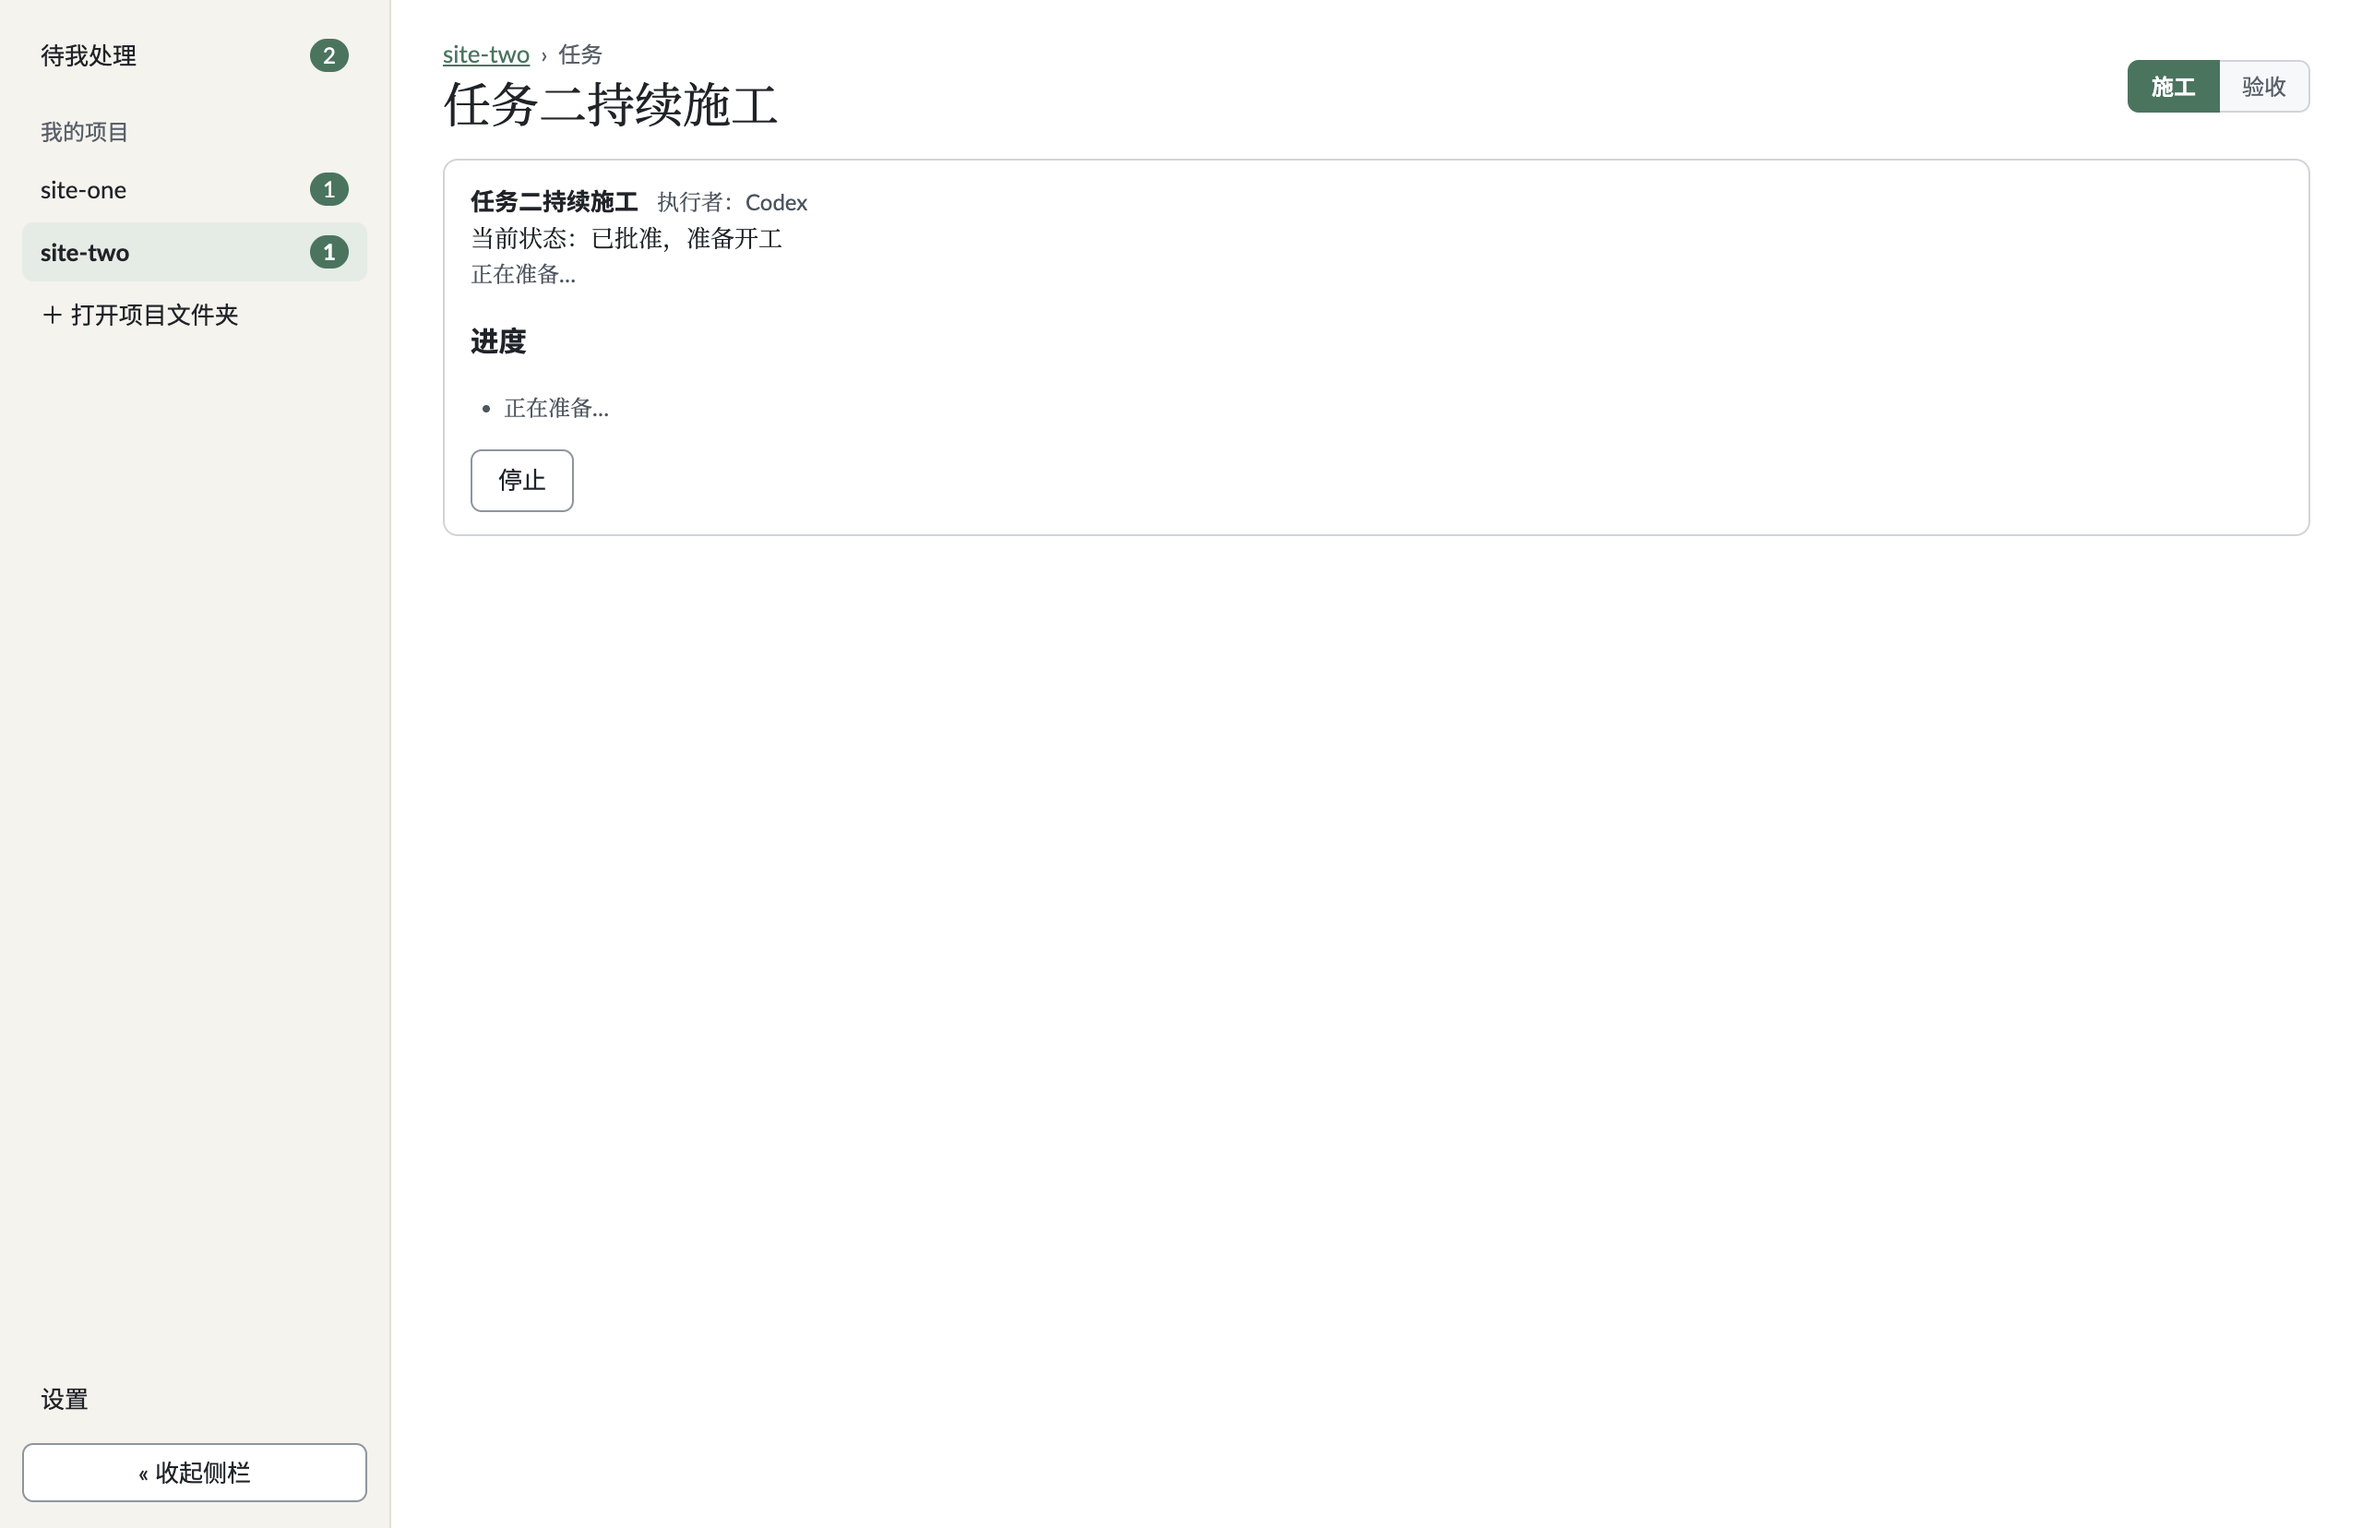
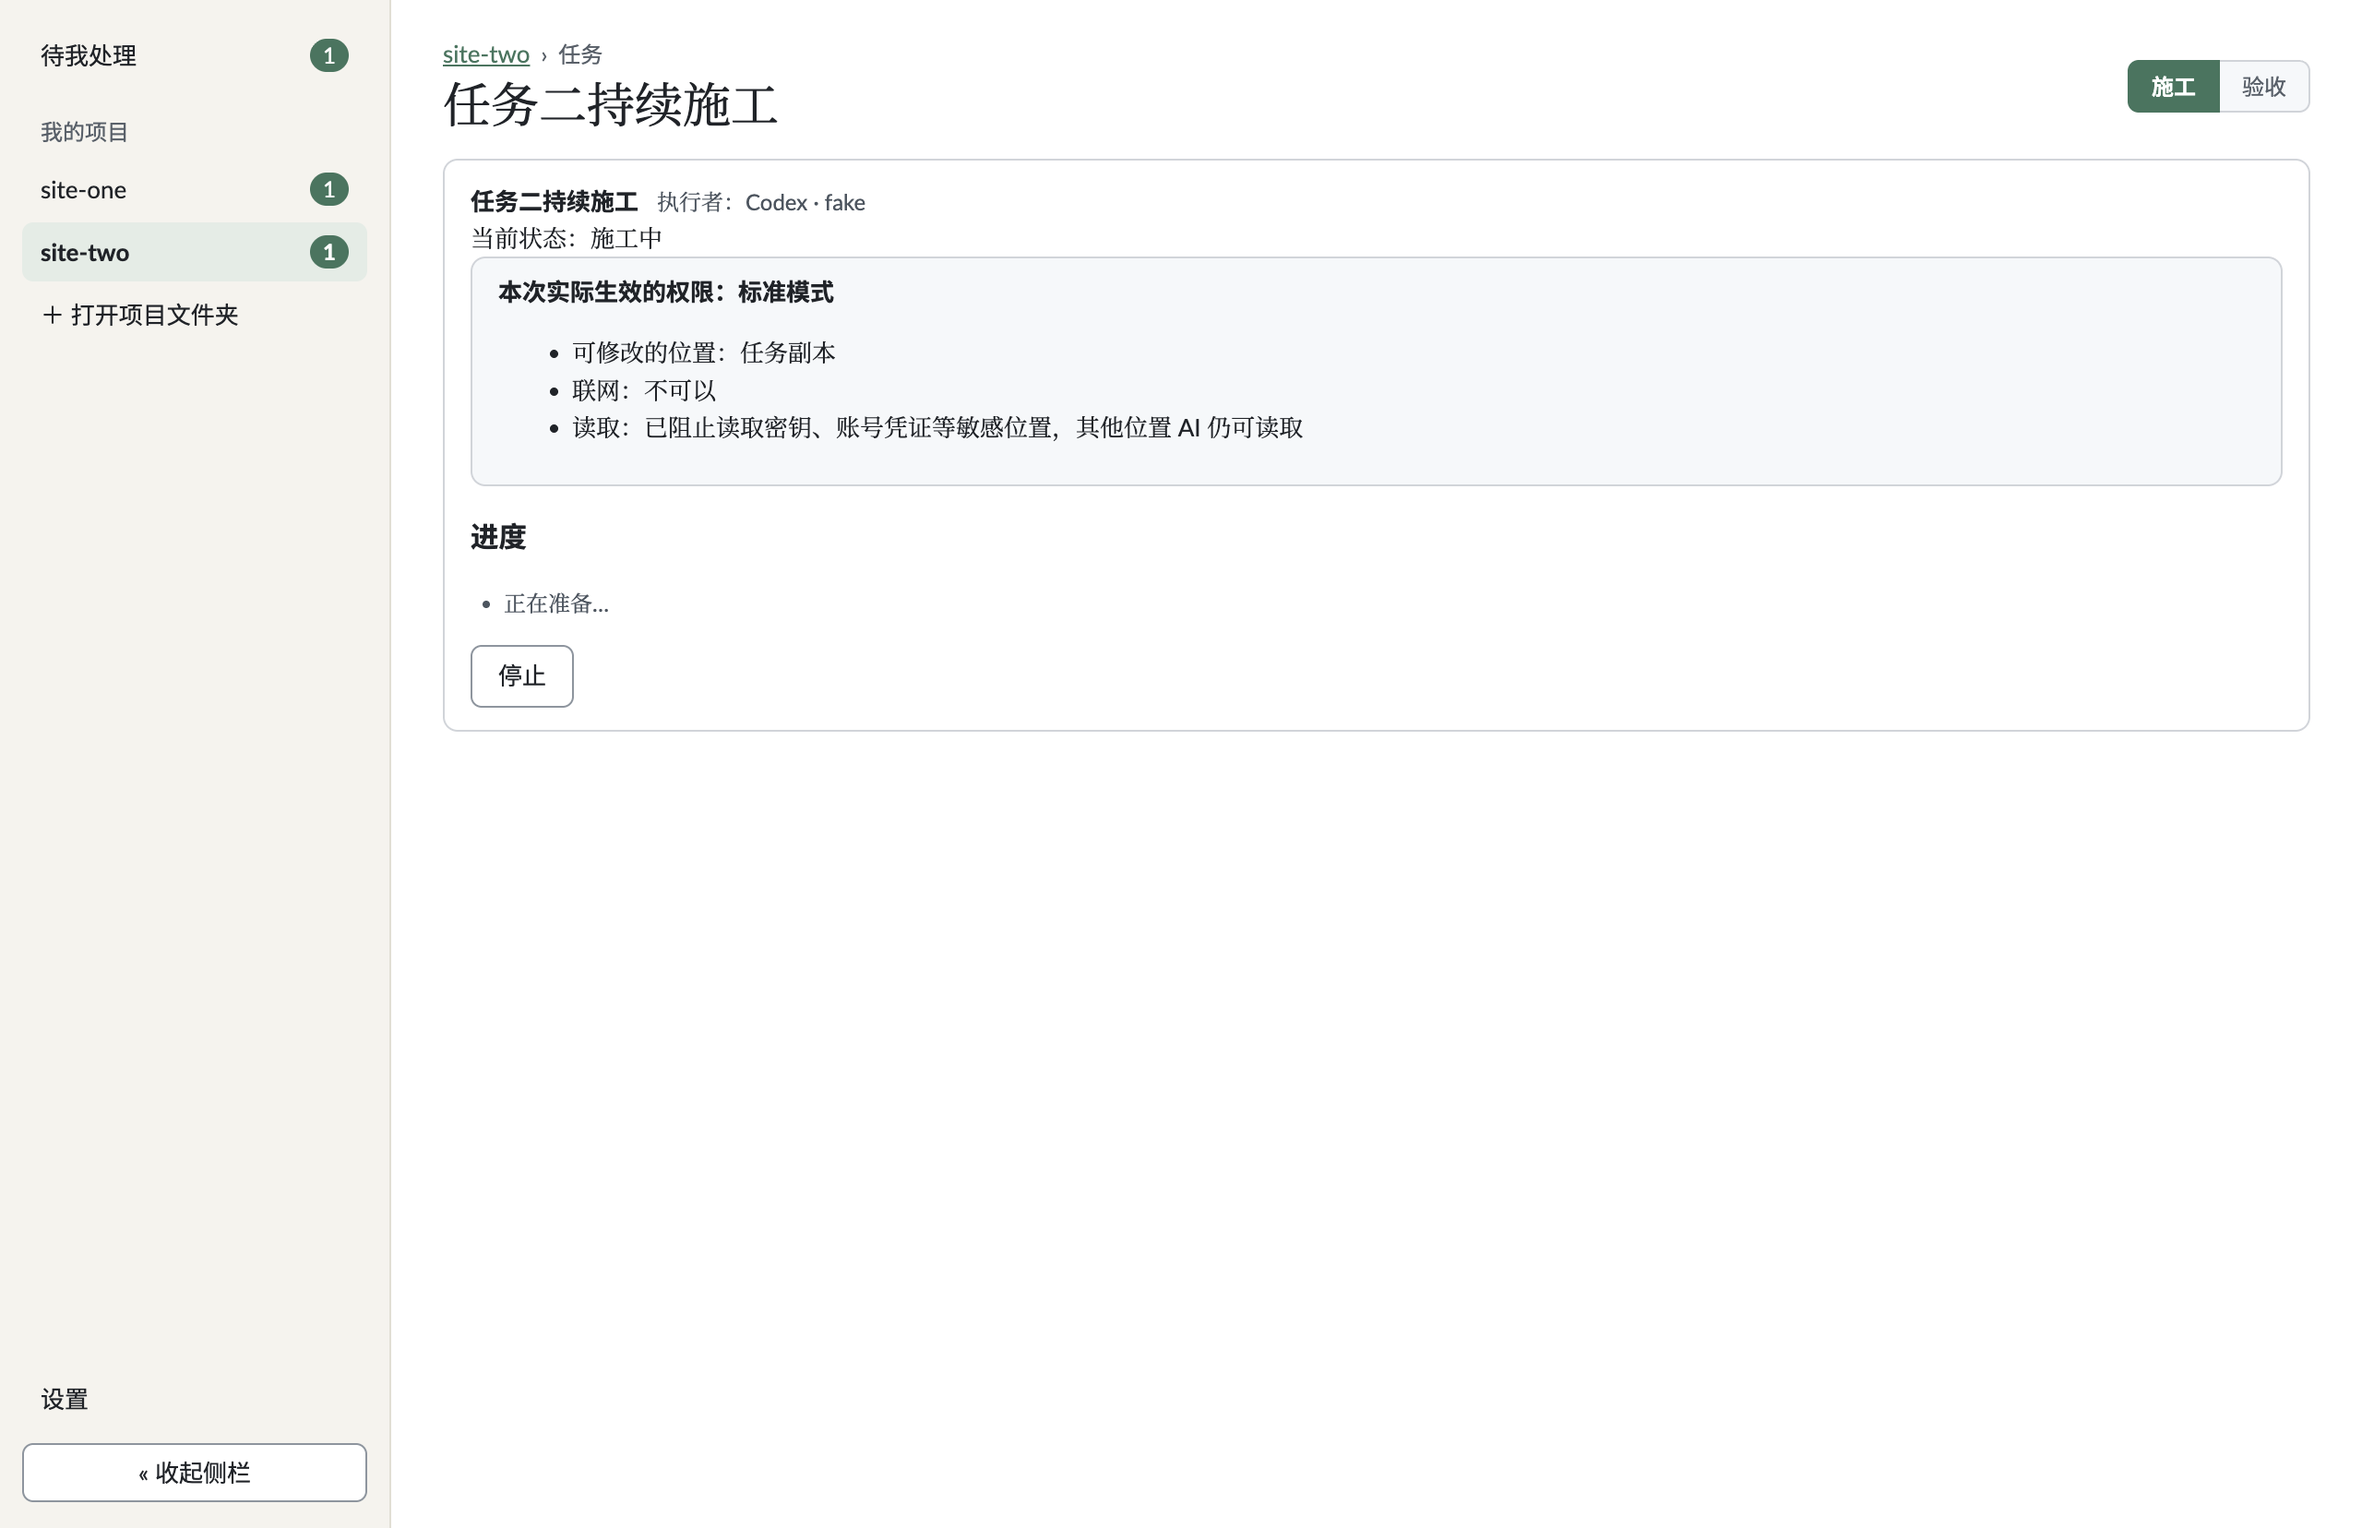
fix(ui): classify active approved tasks as running for workbench

diff --git a/tests/multi-project.test.ts b/tests/multi-project.test.ts
@@ -305,6 +305,8 @@ describe('多项目后台与工作台汇总（阶段 2 第一部分）', () => {
     }
 
     expect(classifyTaskState(baseTask('draft'))).toMatchObject({ stage: 'building', runStatus: '待配置计划', outcome: null, workbenchGroup: 'needs_decision' });
+    expect(classifyTaskState(baseTask('approved'), { isLiveRunning: false })).toMatchObject({ stage: 'building', runStatus: '待开工确认', isRunning: false, workbenchGroup: 'needs_decision' });
+    expect(classifyTaskState(baseTask('approved'), { isLiveRunning: true })).toMatchObject({ stage: 'building', runStatus: '运行中', isRunning: true, workbenchGroup: 'running' });
     expect(classifyTaskState(baseTask('running'))).toMatchObject({ stage: 'building', runStatus: '运行中', isRunning: true, workbenchGroup: 'running' });
     expect(classifyTaskState(baseTask('exec_succeeded'), { isLiveRunning: true })).toMatchObject({ stage: 'building', runStatus: '运行中', workbenchGroup: 'running' });
     expect(classifyTaskState(baseTask('exec_succeeded'), { isLiveRunning: false })).toMatchObject({ stage: 'building', runStatus: '运行中', workbenchGroup: 'needs_decision' });

diff --git a/src/core/app/task-state-view.ts b/src/core/app/task-state-view.ts
@@ -173,12 +173,15 @@ export function classifyTaskState(t: Task, opts: { isLiveRunning?: boolean } = {
       });
     case 'approved':
       return mk('building', {
-        runStatus: '待开工确认',
+        runStatus: opts.isLiveRunning ? '运行中' : '待开工确认',
         outcome: null,
-        workbenchGroup: 'needs_decision',
-        needsAttention: true,
-        impact: '计划已批准但尚未开始执行，主项目文件未改动',
-        actionLabel: '去开工',
+        workbenchGroup: opts.isLiveRunning ? 'running' : 'needs_decision',
+        isRunning: !!opts.isLiveRunning,
+        needsAttention: !opts.isLiveRunning,
+        impact: opts.isLiveRunning
+          ? '正在独立副本中准备开工并施工，你的项目当前保持原样'
+          : '计划已批准但尚未开始执行，主项目文件未改动',
+        actionLabel: opts.isLiveRunning ? '查看' : '去开工',
       });
     case 'running':
       return mk('building', {

diff --git a/docs/reports/2026-11-stage2-shell.md b/docs/reports/2026-11-stage2-shell.md
@@ -27,11 +27,12 @@
    - 实现项目看板 [`ProjectBoard.tsx`](../../src/renderer/ProjectBoard.tsx)（`02-project`）：标签页为「任务 / 保存记录 / 项目设置」；看板列按三层状态映射到「施工中 / 待验收 / 已结束」（阶段 2 暂隐藏尚无后台的「讨论中」列）；卡片固定按「任务名 → 当前状态 → AI 与辅助信息」排列；支持在项目栏内显式「关闭项目」及被拒绝提示。
    - 在主进程 `AppStore` 新增首次环境体检引导完成状态持久化与 `healthProbe` 接入，为工作台与首次引导提供后台支持。
 
-4. **`feat(ui): task page frame and settings shell`（本报告随本次提交推送）**
+4. **`feat(ui): task page frame and settings shell`（`09d7184`，及紧随其后的工作台竞态修复提交）**
    - 新增任务页外框 [`TaskPage.tsx`](../../src/renderer/TaskPage.tsx)：固定顶部展示「项目 › 任务」面包屑、任务标题与两步阶段条（「施工 / 验收」，讨论阶段在阶段 5 前不展示）；原有的 `PlanCard` / `RunView` / `Acceptance` 原样放入外框并统一使用新配色与字体，内部安全与验收逻辑不变。
    - 新增首次启动环境体检引导 [`EnvOnboarding.tsx`](../../src/renderer/EnvOnboarding.tsx) 与共用组件 [`HealthList.tsx`](../../src/renderer/HealthList.tsx)：首次启动展示引导并可一键进入工作台；再次启动直接进入工作台，仅当检测到未通过项时在工作台「需要你决定」提示并支持跳转至「设置 → 环境体检」。
    - 新增全局设置外框 [`SettingsPage.tsx`](../../src/renderer/SettingsPage.tsx)（「资料外发 / 环境体检」）与项目设置内容（仅保留有后台支撑的「新任务预选模式」「项目风险说明」）。
    - 按 B9 按钮层级规范统一每屏仅保留一个实心主按钮，把高风险操作（「仍然保存」、放弃、撤销确认、「完全信任模式确认」）改为次要描边按钮，把阶段 1 未检查确认面板中的「打开预览」升为主按钮。
+   - 紧随提交修复 macOS CI（`42784305957`）暴露的 `approved` + `isLiveRunning` 状态分类竞态：正在准备 worktree 的已批准任务在工作台归入「正在运行」，并同步补强单元测试与 [`03-task-building.png`](../screenshots/stage2/03-task-building.png) 截图。
 
 ---
 
@@ -44,7 +45,8 @@
 | `draft` | 施工 | 施工中 | 待配置计划 | — | 需要你决定 | 否 |
 | `clarifying` | 施工 | 施工中 | 等你裁决 | — | 需要你决定 | 否 |
 | `planned` | 施工 | 施工中 | 待开工确认 | — | 需要你决定 | 否 |
-| `approved` | 施工 | 施工中 | 待开工确认 | — | 需要你决定 | 否 |
+| `approved`（`isLiveRunning=true`） | 施工 | 施工中 | 运行中 | — | 正在运行 | 否 |
+| `approved`（`isLiveRunning=false`） | 施工 | 施工中 | 待开工确认 | — | 需要你决定 | 否 |
 | `running` | 施工 | 施工中 | 运行中 | — | 正在运行 | 否 |
 | `exec_succeeded`（`isLiveRunning=true`） | 施工 | 施工中 | 运行中 | — | 正在运行 | 否 |
 | `exec_succeeded`（`isLiveRunning=false`） | 施工 | 施工中 | 运行中 | — | 需要你决定 | 否 |
@@ -134,15 +136,15 @@
 
 ## 7. 验证结果、CI 链接与过程中的失败记录
 
-### 最终本地验证数字（提交 4 之前全量实跑，无删改或放宽断言）
+### 最终本地验证数字（竞态修复及重拍截图后全量实跑，无删改或放宽断言）
 - `npm run typecheck`：通过（0 错误）
 - 单元测试（`npx vitest run --maxWorkers=4`）：**27 个测试文件、544 项测试全部通过**（另有 11 个 `tests/integration/*.real.test.ts` 测试文件共 37 项因未设置 `STUDIO_REAL_CODEX=1` 按既有配置跳过，0 失败）
-- Electron 端到端测试（`npm run test:e2e`）：**1 个测试文件、37 项测试全部通过**（耗时 `129.23s`）
+- Electron 端到端测试（`E2E_STAGE2_SHOT_DIR=docs/screenshots/stage2 npm run test:e2e`）：**1 个测试文件、37 项测试全部通过**（耗时 `152.29s`，并同步刷新阶段 2 全部 7 张截图）
 - 桌面冒烟测试（`npm run smoke`）：**全部 6 项检查通过**，正常退出 `code=0`
 
 ### GitHub CI 状态
 - **第一部分（Commit 1 · `914d90c`）CI 通过**：[`https://github.com/luckyjamesriver/ai-solo-studio/actions/runs/42780381268`](https://github.com/luckyjamesriver/ai-solo-studio/actions/runs/42780381268) — `test (ubuntu-latest)`（`1m3s`）与 `test (macos-latest)`（`5m29s`，含 35 项 Electron 端到端测试）均 `success`。
-- **第二部分（Commit 2–4）**：Commit 2 (`072d451`) 与 Commit 3 (`a5a0e4a`) 均在本地完成编译/测试/冒烟后依次提交，将随 Commit 4 与本报告一同推送至 `rebuild` 并触发双平台 CI 校验。
+- **第二部分初推（Commit 2–4 · `072d451`..`09d7184`）**：[`https://github.com/luckyjamesriver/ai-solo-studio/actions/runs/42784305957`](https://github.com/luckyjamesriver/ai-solo-studio/actions/runs/42784305957) — `test (ubuntu-latest)`（`46s`）`success`；`test (macos-latest)` 36/37 通过，仅在 `e2e/shell.e2e.ts:1226` 暴露一处状态分类竞态（详见下方第 7 条）。修复提交与更新后的本报告将推送至 `rebuild` 进行新一轮双平台 CI 验证。
 
 ### 过程中的所有失败及修复
 1. **`tests/security.test.ts:816` 报 `ReferenceError: os is not defined`**：新增的 `OpenProjectManager` 运行时安全测试调用了 `os.tmpdir()` 但测试文件顶部未引入 `node:os`；在测试块内补充 `await import('node:os')` 后通过。
@@ -153,3 +155,6 @@
    - `tests/save-safety.test.ts:807` 偶现 `无效的参数`：因旧版 `acceptanceView` 未把 `TaskController.active` 计入 `busy` 且测试仅用 `while (view.busy)` 等待；已在 [`task-controller.ts`](../../src/core/app/task-controller.ts#L258) 的 `acceptanceView` 中加入 `this.active.has(t.id)`，并把该测试等待条件收紧为 `view.busy || view.state !== 'reviewing'`（设 500 轮上限防死循环）。
 5. **`e2e/shell.e2e.ts:185` Playwright 严格模式冲突（`strict mode violation`）**：空工作台顶部入口与侧栏都命名为「打开项目文件夹」，导致 `getByRole('button', { name: '打开项目文件夹' })` 匹配两个按钮；将工作台空态头部按钮文案调整为「＋ 打开项目」后消除冲突，37 项端到端测试一次全过。
 6. **看板卡片标题视觉居中对齐偏移**：截图审阅发现 [`02-project-board.png`](../screenshots/stage2/02-project-board.png) 中 `.card-title` 继承了 `button { justify-content: center }` 导致卡片标题居中；补充 `.card-title { justify-content: flex-start; text-align: left; }` 后重新构建、全跑测试并重拍截图验证对齐正确。
+7. **macOS CI 运行 [`42784305957`](https://github.com/luckyjamesriver/ai-solo-studio/actions/runs/42784305957) 暴露 `e2e/shell.e2e.ts:1226` 超时（`TimeoutError: page.waitForFunction` 等待 `[data-testid="wb-running"]` 包含 `'任务二持续施工'`）**：
+   - 根因：点击「开始施工」后任务立即进入 `TaskController.active`（异步创建 worktree 期间持久化状态仍为 `approved`），但 [`classifyTaskState`](../../src/core/app/task-state-view.ts) 对 `approved` 一律归为 `workbenchGroup: 'needs_decision'` 且 `isRunning: false`；快速切回工作台读取到 `counts.running === 0`，导致 `App.tsx` 关闭 `shouldPoll` 轮询，后续 `approved → running` 迁移不会被工作台自动刷新。
+   - 修复：在 `classifyTaskState` 的 `approved` 分支按 `opts.isLiveRunning` 区分——活跃施工中返回 `workbenchGroup: 'running'`、`runStatus: '运行中'`、`isRunning: true`；在 [`tests/multi-project.test.ts`](../../tests/multi-project.test.ts) 增补 `approved` 与 `isLiveRunning` 组合断言，并在 [`e2e/shell.e2e.ts`](../../e2e/shell.e2e.ts) 拍摄 `03-task-building.png` 前增加等待 `run-view` 出现 `[data-testid="perm-summary"]` 的步骤。修复后本地 `typecheck`、544 项单元测试、37 项 E2E 与 6 项冒烟检查全部通过。
